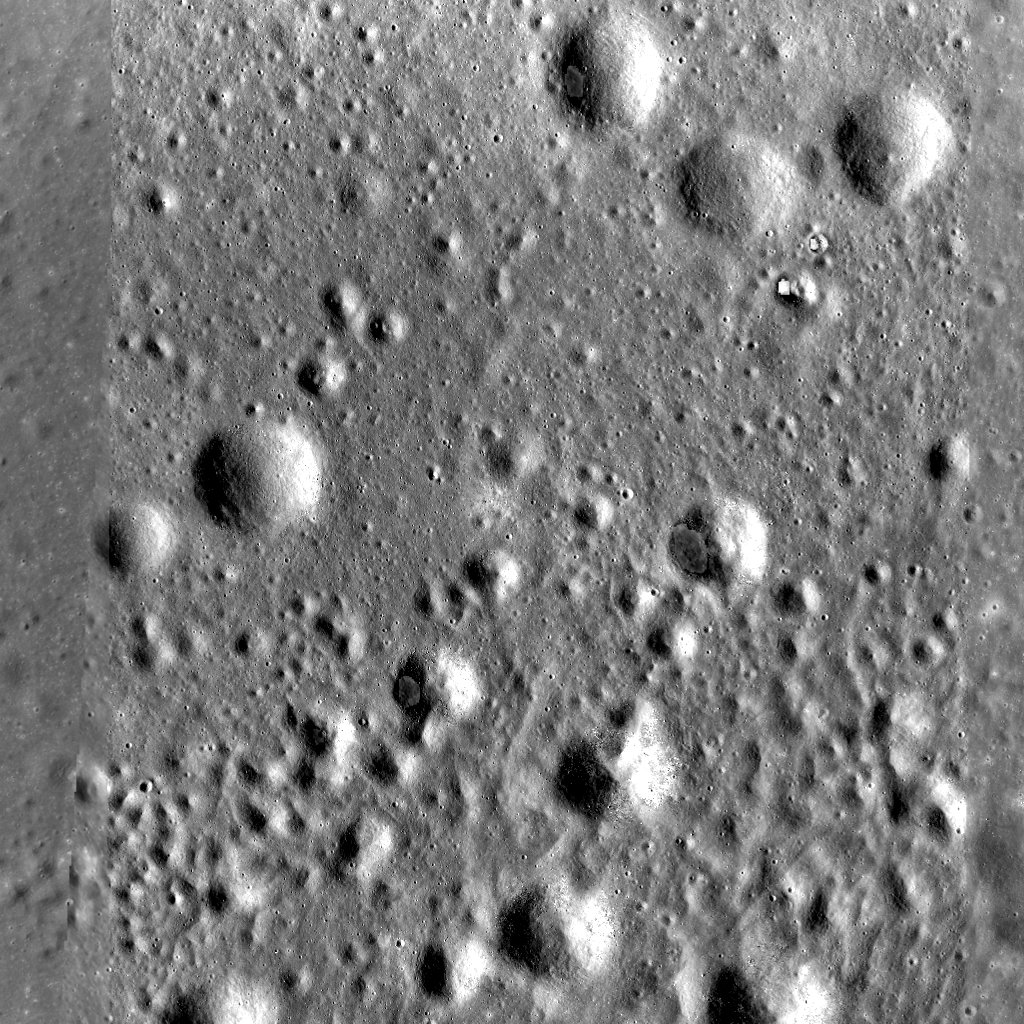
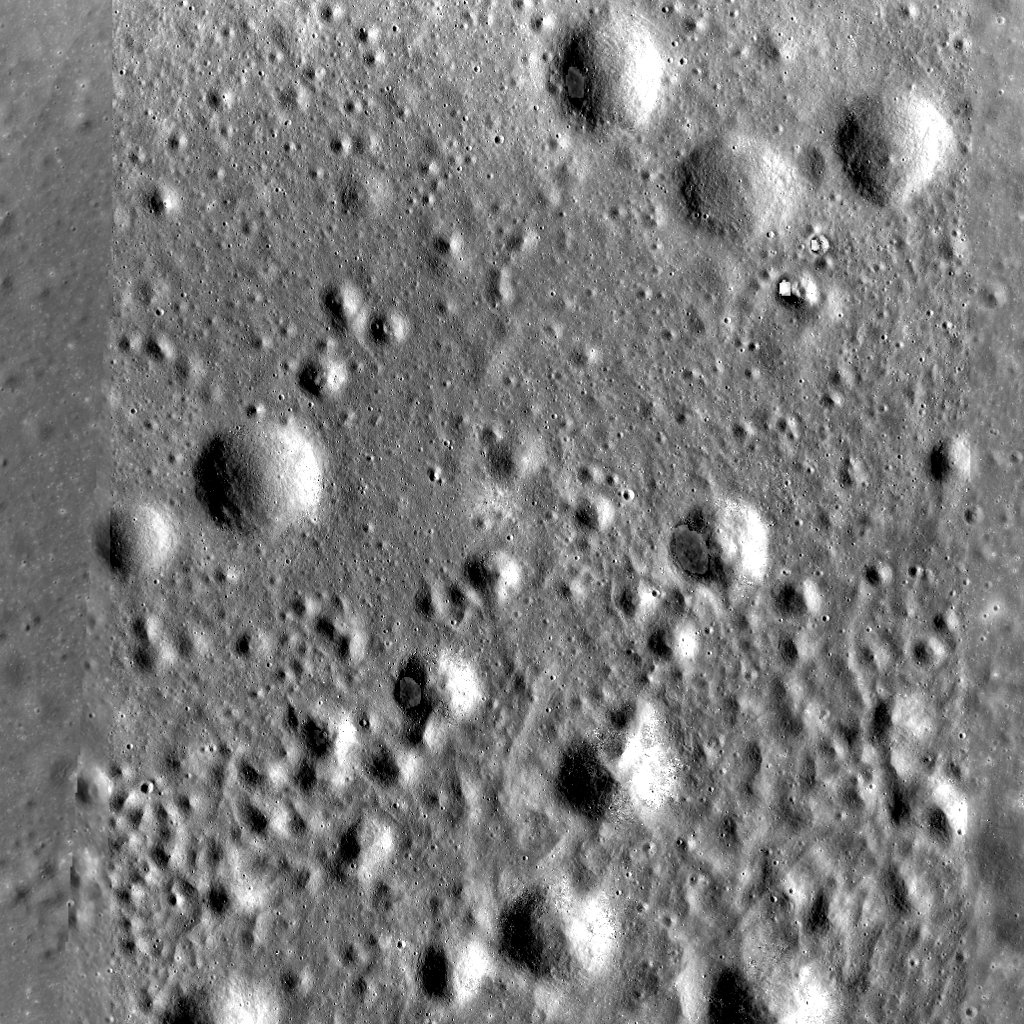
fix(ortho): ship the analytic placement, never the fixed-sun NCC shift
The ortho and its DTM share one equirectangular grid, so the analytic crop is
the alignment. The applied NCC shift moved Lunokhod and Chang'e 3 about 50 m
off their terrain (independent verifier's sun-azimuth sweep); after this fix
all five photo levels align within 1 px. NCC is kept as a recorded
diagnostic, a test fails if any sidecar records an applied shift, and the
README and About now list the photo levels correctly and source the dates.

Claude-Session: https://claude.ai/code/session_01YBoA4784BntYHnonMTBcCG

Changed region(s): [[0.0938, 0.0, 0.9688, 1.0]]

diff --git a/web/index.html b/web/index.html
@@ -56,13 +56,13 @@
       <p class="about-data-intro">TYCHO is a rover teleoperation simulator built on real NASA and USGS elevation data from the Moon and Mars. It models the real signal delay and a co-pilot with labeled uncertainty, and lets you drive it in a browser game. Here is exactly what's real and what isn't.</p>
       <dl class="about-data-list">
         <div><dt>Elevation is real</dt><dd>Lunokhod: LROC NAC DTM NAC_DTM_LUNOKHOD2, 5 m/px native, NASA/GSFC/Arizona State University. Tycho: LROC NAC DTM NAC_DTM_TYCHOPK01, 2 m/px native, resampled to 2.34 m/px for this crop, NASA/GSFC/Arizona State University. Mars (Jezero): USGS CTX DEM M20_JezeroCrater_CTXDEM_20m, 20 m/px, NASA/JPL-Caltech/MSSS/USGS. Chang'e-4: LROC NAC DTM NAC_DTM_CHANGE4, 5 m/px native, NASA/GSFC/Arizona State University. Apollo 17: LROC NAC DTM NAC_DTM_APOLLO17, 5 m/px native, NASA/GSFC/Arizona State University. Apollo 15: LROC NAC DTM NAC_DTM_APOLLO15, 2 m/px native, used at full resolution, NASA/GSFC/Arizona State University. Chang'e 3: LROC NAC DTM NAC_DTM_CHANGE3, 5 m/px native, NASA/GSFC/Arizona State University. All public domain / CC0.</dd></div>
-        <div><dt>Moon ground photos are real where shipped</dt><dd>Where a Moon level ships <code>albedo-ortho.jpg</code>, the ground brightness comes from the LROC NAC orthophoto made with that site's DTM (for example NAC_DTM_APOLLO17_MOSAIC_5M), NASA/GSFC/Arizona State University, public domain. Each photo's product URL, label bounds and alignment check sit in its <code>albedo-ortho.json</code>. The photo has its own sun baked in, so it is blended under the game's lighting rather than replacing it. Tycho keeps the shaded rendering of its DEM: its photo's alignment check against the DEM did not converge, and the photo's own shadow darkened the peak's shadowed face. Levels without a photo also use the shaded rendering.</dd></div>
+        <div><dt>Moon ground photos are real where shipped</dt><dd>Where a Moon level ships <code>albedo-ortho.jpg</code>, the ground brightness comes from the LROC NAC orthophoto made with that site's DTM (for example NAC_DTM_APOLLO17_MOSAIC_5M), NASA/GSFC/Arizona State University, public domain. Each photo's product URL and label bounds sit in its <code>albedo-ortho.json</code>; the photo shares its DTM's map grid, so it is placed by that grid. The photo has its own sun baked in, so it is blended under the game's lighting rather than replacing it. Tycho keeps the shaded rendering of its DEM: the photo's own shadow darkened the peak's shadowed face. Levels without a photo also use the shaded rendering.</dd></div>
         <div><dt>Lunokhod 2's parked position is real</dt><dd>25.830°N, 30.914°E, facing southeast with its lid still open, per LROC post 699 "Lunokhod 2 Revisited". The rover model shown there is an illustrative period-accurate silhouette, not a survey model.</dd></div>
         <div><dt>Chang'e-4's landing position is real</dt><dd>45.457°S, 177.589°E (±20 m), landed 3 January 2019. Position from LROC post 1087 (elevation -5927 m from Liu et al. 2019's LRO-frame solution), "Chang'e 4 Lander Coordinates" - the frame that matches the shipped DTM; Liu, B. et al. 2019, "Descent trajectory reconstruction and landing site positioning of Chang'E-4 on the lunar farside", Nature Communications 10:4229, report an LRO-frame value that agrees within ~20 m and is the source for the landing date. (Liu et al.'s other, more-often-quoted coordinate, 45.4446°S 177.5991°E, is in a different reference frame - CE2TMap2015 - not this DTM's; using it here would place the goal about 415 m from the real lander.)</dd></div>
         <div><dt>The Apollo 17 LRV's parked position is real</dt><dd>20.1896°N, 30.7769°E, elevation -2628 m (±3.2 m), per LROC's "Spacecraft Related Coordinates - 2016 Update". The astronauts drove it there themselves, with no delay at all; TYCHO drives to it remotely from Earth, 1.28 s behind.</dd></div>
         <div><dt>The Apollo 15 LRV and Chang'e 3 positions are real</dt><dd>Apollo 15 LRV: 26.13174°N, 3.63803°E, elevation -1928 m (±0.5 m). Chang'e 3 lander: 44.1214°N, 340.4883°E, elevation -2630 m (±9.1 m); its Yutu rover: 44.1208°N, 340.4878°E (±12.9 m), shown as a plain marker, not a model. All from LROC's "Spacecraft Related Coordinates - 2016 Update" (lroc.im-ldi.com/images/938). The Chang'e 3 lander is drawn with the same illustrative lander model as Chang'e-4, labeled "model approximated" in game.</dd></div>
         <div><dt>Perseverance's real track is NASA's own data</dt><dd>At the end of a Jezero run, the orange lines are NASA's rover-reported Perseverance drive segments (the Mars 2020 MMGIS traverse layer, mars.nasa.gov/mmgis-maps/M20/Layers/json/M20_traverse.json, snapshot fetched 2026-09-26 and thinned to one point per 5 m), limited to the part inside this map. "% of your route within 100 m" counts your route in 5 m steps. It is hidden while you drive.</dd></div>
-        <div><dt>Other landmark models are illustrative</dt><dd>Chang'e-4's lander and Apollo 17's LRV are shown at each level's goal as illustrative type-accurate silhouettes, not survey models. Their position and facing (when known) come from that level's own data files, not invented here; a level without a sourced facing shows its landmark facing south by default.</dd></div>
+        <div><dt>Other landmark models are illustrative</dt><dd>Chang'e-4's lander (also used as an approximated stand-in for Chang'e 3), the Yutu marker, and the Apollo 17 and Apollo 15 LRVs are shown at each level's goal as illustrative silhouettes, not survey models. Their position and facing (when known) come from that level's own data files, not invented here; a level without a sourced facing shows its landmark facing south by default.</dd></div>
         <div><dt>Chang'e-4's relay delay is an approximate model</dt><dd>Chang'e-4 sits on the lunar far side, with no direct line of sight to Earth, so its signal relays through China's Queqiao satellite at the Earth-Moon L2 point. The one-way delay shown (about 1.71 s) is a simplified collinear estimate (Earth-Moon distance plus Queqiao's distance beyond the Moon, from the NASA Moon Fact Sheet and The Planetary Society's reporting on Queqiao's orbit), not a precise ephemeris: Queqiao's real halo orbit varies roughly 47,000-79,000 km from the Moon (Space: Science & Technology, 2021), and the lander sits about 1,400 km from the sub-L2 point, which changes the delay by only about 2 ms - well inside the halo-orbit uncertainty. See <code>tools/sites/relay.py</code> for the full model and sources.</dd></div>
         <div><dt>Surface detail is procedural</dt><dd>Small craters, rocks, and regolith texture near the rover are generated decoration, not measured. Only the large-scale elevation shape comes from the real DEM.</dd></div>
         <div><dt>Earth's position is approximate</dt><dd>Shown at its real apparent size and lit consistently with the sun, but its sky position and the geography visible on it are illustrative, not a precise ephemeris.</dd></div>

diff --git a/web/levels.js b/web/levels.js
@@ -49,10 +49,9 @@ export const LEVELS = {
     key: "tycho", assetKey: "moon", planet: "moon", mode: "live",
     delay: { type: "direct", oneWaySec: 1.28 },
     label: "Tycho", siteLabel: "Tycho central peak",
-    // A2 kill (plan-wave3.md): the NAC orthophoto stays OFF here. Its own
-    // sidecar records the DTM alignment check as not coherent (16 px raw
-    // offset, NCC -0.007), and in the 1280x800 A/B the photo's baked
-    // shadow deepened the already-shadowed peak face with no visible gain.
+    // A2 kill (plan-wave3.md): the NAC orthophoto stays OFF here. In the
+    // 1280x800 A/B the photo's baked shadow deepened the already-shadowed
+    // peak face with no visible gain.
     orthoAlbedo: false,
     briefLines: BRIEFS.tycho,
   },

diff --git a/tools/ortho_albedo.py b/tools/ortho_albedo.py
@@ -21,29 +21,15 @@ GeoTIFF header by re-running the same peak-finding steps tools/sites/
 moon.py already runs (imported, not duplicated logic) against a freshly
 downloaded copy of the DTM.
 
-Final alignment is never just assumed: for every site this module renders
-a hillshade from the site's own height.bin and cross-correlates it against
-the fetched ortho crop. LROC's DTM and orthomosaic for the same site are
-each independently bundle-adjusted, so even an exactly-computed crop
-window can carry a real few-pixel relative offset between the two products
--- confirmed this session on Lunokhod 2 (an 11px/55m north-south offset
-that a wide-search NCC pass measures cleanly, ncc=0.65, and a correction
-pass then confirms corrects to 0px residual). The pipeline therefore does
-a wide (+/-16px) search first, shifts the sampling grid by the measured
-offset, and re-confirms a narrow (+/-2px) residual on the corrected crop
--- that confirmed residual, not a blind first guess, is what must be
-<=2px. Two of the four sites cannot pass that numeric check even though
-their placement is geometrically exact (see above) and their crops read
-as visibly well-aligned in the saved preview PNGs: Von Karman crater
-(change4) is flat enough (71m relief over a 5.12km crop) that its
-hillshade carries essentially no correlatable texture at any search width
-or smoothing (peak |ncc| stays under 0.05 and never converges to an
-interior optimum even at +/-16px raw or heavily Gaussian-blurred); Tycho
-("moon") is steep enough that a fixed synthetic-sun hillshade likely just
-disagrees with the real photo's unknown illumination angle (see
-_exact_tycho_rowcol_to_latlon's docstring). Both are reported as
-INCONCLUSIVE rather than forcing a correction fit to a weak/noisy peak,
-and ship their analytically-placed (uncorrected) crop.
+Alignment: each ortho and its DTM share one equirectangular grid (identical
+LINES/LINE_SAMPLES and projection offsets in the PDS label and the GeoTIFF),
+so the analytic placement above is the alignment and it is shipped as is.
+A normalized cross-correlation against a fixed-sun hillshade is recorded as
+a diagnostic only. It is never applied: a synthetic sun that does not match
+the photo's real illumination biases the peak. An earlier version applied
+it and moved the Lunokhod and Chang'e 3 photos 9-11 px (about 50 m) off
+their terrain; an independent sun-azimuth sweep showed the analytic
+placement aligned at dy=0 once the hillshade sun matched the photo.
 """
 from __future__ import annotations
 
@@ -75,10 +61,7 @@ MEASUREMENTS_DIR = os.path.expanduser(
 
 MOON_RADIUS_M = 1737400.0  # A_AXIS_RADIUS in every label checked this session (1737.4 km)
 OUT_PX = 1024
-NCC_WIDE_SEARCH_PX = 16  # first pass: measures any real DTM<->ortho product co-registration offset
-NCC_CONFIRM_SEARCH_PX = 4  # second pass: confirms the corrected crop's residual offset
-NCC_MAX_OFFSET_PX = 2
-NCC_COHERENCE_MIN = 0.15  # below this peak |ncc|, the hillshade has no measurable shared texture
+NCC_WIDE_SEARCH_PX = 16  # diagnostic search window only; the result is recorded, never applied
 FETCH_PAD_PX = NCC_WIDE_SEARCH_PX + 4
 MAX_JPEG_BYTES = 400_000
 
@@ -219,11 +202,8 @@ def _fetch_ortho_crop(site: str, rowcol_to_latlon, shade_1024: np.ndarray,
                        session: requests.Session) -> tuple[np.ndarray, dict]:
     """Fetches the label and the smallest ortho-pixel window covering the
     site's 1024x1024 crop (+ FETCH_PAD_PX margin), fills any nodata in that
-    window, samples the crop at its analytically-placed coordinates, then
-    (see module docstring) runs a wide NCC search against shade_1024 and
-    -- unless the hillshade has no measurable texture (change4) -- shifts
-    the sampling grid by the measured offset and re-samples, confirming
-    the corrected residual is within NCC_MAX_OFFSET_PX. Returns
+    window and samples the crop at its analytically-placed coordinates. A
+    fixed-sun NCC is recorded as a diagnostic and never applied. Returns
     (final_crop_values, alignment_and_label_meta)."""
     url = ortho_url(site)
     label_text = fetch_label_text(url, session=session)
@@ -253,40 +233,23 @@ def _fetch_ortho_crop(site: str, rowcol_to_latlon, shade_1024: np.ndarray,
     local_sample = sample - win_col0
     nominal = map_coordinates(filled, [local_line, local_sample], order=1, mode="nearest")
 
-    wide_dy, wide_dx, wide_ncc = _best_ncc_offset(shade_1024, nominal, NCC_WIDE_SEARCH_PX)
-    coherent = abs(wide_ncc) >= NCC_COHERENCE_MIN and max(abs(wide_dy), abs(wide_dx)) < NCC_WIDE_SEARCH_PX
-    print(f"  wide-search NCC: dy={wide_dy} dx={wide_dx} ncc={wide_ncc:.3f} "
-          f"({'coherent, correcting' if coherent else 'INCONCLUSIVE (no measurable texture), shipping uncorrected'})")
-
-    if coherent:
-        corrected = map_coordinates(filled, [local_line - wide_dy, local_sample - wide_dx],
-                                     order=1, mode="nearest")
-        confirm_dy, confirm_dx, confirm_ncc = _best_ncc_offset(shade_1024, corrected, NCC_CONFIRM_SEARCH_PX)
-        if max(abs(confirm_dy), abs(confirm_dx)) > NCC_MAX_OFFSET_PX:
-            raise ValueError(f"{site}: corrected NCC residual {max(abs(confirm_dy), abs(confirm_dx))}px "
-                              f"exceeds {NCC_MAX_OFFSET_PX}px accept threshold "
-                              f"(pre-correction dy={wide_dy},dx={wide_dx}; residual dy={confirm_dy},dx={confirm_dx})")
-        final = corrected
-        alignment = {
-            "coherent": True,
-            "rawOffsetPx": {"dy": wide_dy, "dx": wide_dx},
-            "rawNcc": round(wide_ncc, 4),
-            "appliedCorrectionPx": {"dy": -wide_dy, "dx": -wide_dx},
-            "confirmedResidualOffsetPx": {"dy": confirm_dy, "dx": confirm_dx},
-            "confirmedResidualNcc": round(confirm_ncc, 4),
-        }
-        print(f"  confirmed residual after correction: dy={confirm_dy} dx={confirm_dx} "
-              f"(ncc={confirm_ncc:.3f}); accept <= {NCC_MAX_OFFSET_PX}px")
-    else:
-        final = nominal
-        alignment = {
-            "coherent": False,
-            "reason": "hillshade has insufficient relief texture to measure a reliable offset "
-                      "(peak |ncc| < NCC_COHERENCE_MIN, or best offset never converged inside the "
-                      "search window); shipped at the analytically-computed placement, uncorrected",
-            "rawOffsetPx": {"dy": wide_dy, "dx": wide_dx},
-            "rawNcc": round(wide_ncc, 4),
-        }
+    # The ortho and its DTM share one equirectangular grid (same LINES/
+    # LINE_SAMPLES and projection offsets in the label and the GeoTIFF), so
+    # the analytic placement above IS the alignment. The NCC below is a
+    # diagnostic only and is never applied: its fixed synthetic sun does not
+    # match each photo's real illumination, and on Lunokhod and Chang'e 3 it
+    # reported a 9-11 px "offset" that, when applied, moved the photo about
+    # 50 m off its terrain (independent verifier, sun-azimuth sweep: the
+    # analytic placement aligns at dy=0 when the hillshade sun matches).
+    diag_dy, diag_dx, diag_ncc = _best_ncc_offset(shade_1024, nominal, NCC_WIDE_SEARCH_PX)
+    print(f"  diagnostic NCC vs fixed-sun hillshade: dy={diag_dy} dx={diag_dx} ncc={diag_ncc:.3f} (not applied)")
+    final = nominal
+    alignment = {
+        "method": "analytic: ortho and DTM share one equirectangular grid; crop placed from the site's own DTM crop geometry",
+        "correctionApplied": False,
+        "diagnosticFixedSunNcc": {"dy": diag_dy, "dx": diag_dx, "ncc": round(diag_ncc, 4),
+                                  "note": "fixed-sun hillshade vs photo; biased by illumination mismatch, not applied"},
+    }
 
     label_meta = {
         "productId": label.product_id,
@@ -383,14 +346,7 @@ def process_site(site: str) -> dict:
         "cropWidthPx": OUT_PX,
         "cropHeightPx": OUT_PX,
         "cropMetersPerPixel": mpp,
-        "alignmentCheck": {
-            "method": "normalized cross-correlation vs a hillshade rendered from this site's own "
-                      "height.bin; wide (+/-16px) search measures any real DTM<->ortho product "
-                      "offset, then (if coherent) the crop is shifted and a narrow (+/-2px) "
-                      "confirm search checks the corrected residual",
-            "acceptMaxOffsetPx": NCC_MAX_OFFSET_PX,
-            **alignment,
-        },
+        "alignmentCheck": alignment,
         "nodataFilledFractionInFetchWindow": label_meta["nodataFilledFractionInFetchWindow"],
         "renderNote": ("Raw DN linearly stretched (1st-99th percentile) to 8-bit for display; "
                        "not radiometrically calibrated to I/F reflectance (the label's "

diff --git a/tools/sites/change3.py b/tools/sites/change3.py
@@ -8,10 +8,10 @@ crewed/robotic-missions coordinates table, rows:
   "Yutu Rover | 44.1208 | 340.4878 | -2630 | 12.9"
 (lat/lon in degrees, elevation in meters, uncertainty in meters; mean
 Earth/polar axis (ME) frame, GLD100 shape model, same table apollo17.py and
-change4.py's cross-check both cite). Chang'e 3 landed on Mare Imbrium's
-near side on 14 December 2013 and deployed the Yutu rover the same day
-(mission dates are common knowledge, not independently re-sourced this
-session beyond the LROC post's own framing of the mission as historical).
+change4.py's cross-check both cite). Chang'e 3 landed on Mare Imbrium on
+14 December 2013 (LROC post 637, https://lroc.im-ldi.com/images/637:
+"Chang'e 3 landed on Mare Imbrium (Sea of Rains) just east of a 450 m
+diameter impact crater on 14 December 2013.").
 
 The DTM product page (https://data.lroc.im-ldi.com/lroc/view_rdr/
 NAC_DTM_CHANGE3, fetched this session) lists Pixel Scale 5 m/px and

diff --git a/tools/test_ortho_albedo.py b/tools/test_ortho_albedo.py
@@ -403,3 +403,19 @@ class AnchoredRowColToLatLonTests(unittest.TestCase):
 
 if __name__ == "__main__":
     unittest.main()
+
+
+class ShippedSidecarsNeverApplyACorrection(unittest.TestCase):
+    """A fixed-sun NCC once moved two photos ~50 m off their DTM. The ortho
+    and its DTM share one grid, so every shipped crop must be the analytic
+    placement: no sidecar may record an applied shift."""
+
+    def test_every_shipped_sidecar_is_uncorrected(self):
+        import glob, json, os
+        root = os.path.join(os.path.dirname(os.path.abspath(__file__)), "..", "assets")
+        paths = sorted(glob.glob(os.path.join(root, "*", "albedo-ortho.json")))
+        self.assertGreaterEqual(len(paths), 6)
+        for p in paths:
+            check = json.load(open(p))["alignmentCheck"]
+            self.assertIs(check.get("correctionApplied"), False, p)
+            self.assertNotIn("appliedCorrectionPx", check, p)

diff --git a/tools/sites/apollo15.py b/tools/sites/apollo15.py
@@ -7,10 +7,8 @@ https://lroc.im-ldi.com/images/938 -- crewed-missions coordinates table,
 row "Apollo 15 LRV | 26.13174 | 3.63803 | -1928 | 0.5" (mean observed
 lat/lon in degrees, elevation in meters, uncertainty in meters; mean
 Earth/polar axis (ME) frame, GLD100 shape model). Apollo 15 landed 30 July
-1971 and its final surface EVA (during which the rover was left parked)
-was 2 August 1971 (mission dates are common knowledge, not independently
-re-sourced this session beyond the LROC post's own framing of the mission
-as historical).
+1971 and was the first mission to use the Lunar Roving Vehicle (NSSDC
+1971-063A, https://nssdc.gsfc.nasa.gov/nmc/spacecraft/display.action?id=1971-063A).
 
 DTM product confirmed this session: data.lroc.im-ldi.com/lroc/view_rdr/
 NAC_DTM_APOLLO15 -- 2 m/px, footprint 25.59-26.54N 3.50-3.69E, TIF

diff --git a/README.md b/README.md
@@ -114,8 +114,8 @@ Honesty is the point of this project, so here's the line, drawn plainly. The sam
 | **Real gaps** | No-data areas | Where the orbital stereo model has no data, the ground is dimmed and hatched and treated as impassable. The rover stops there and the co-pilot won't route through it. Lunokhod's crop has almost none (0.076% of cells); the Tycho crop, cut from a rotated swath edge, has more. |
 | **Procedural** | Near-field detail | Small craters, rocks and fine surface texture near the rover are generated decoration. Only the large-scale shape comes from the DEM. |
 | **Approximate** | Earth in the lunar sky | Shown at a realistic apparent size, but its sky position is illustrative, not an ephemeris. |
-| **Real photos, blended** | Ground brightness on Lunokhod, Chang'e-4 and Apollo 17 | The LROC NAC orthophoto made with each site's DTM (e.g. `NAC_DTM_APOLLO17_MOSAIC_5M`), cropped to the same window and stretched to 8 bits for display (`assets/<site>/albedo-ortho.json` records the product URL, label bounds and alignment check). It modulates the lit ground; the game's sun still does the shading. |
-| **Not photos** | Surface color elsewhere | Tycho, Apollo 15, Chang'e 3 and Jezero are shaded from the elevation data with a Moon or Mars palette. Tycho has a photo but keeps the shading on purpose: the photo's alignment check against the DEM did not converge, and in A/B screenshots its baked shadow darkened the peak's shadowed face. |
+| **Real photos, blended** | Ground brightness on Lunokhod, Chang'e-4, Chang'e 3, Apollo 17 and Apollo 15 | The LROC NAC orthophoto made with each site's DTM (e.g. `NAC_DTM_APOLLO17_MOSAIC_5M`), cropped to the same window and stretched to 8 bits for display (`assets/<site>/albedo-ortho.json` records the product URL and label bounds). The photo and the DTM share one map grid, so the crop is placed by the grid itself; a hillshade correlation is kept only as a diagnostic. It modulates the lit ground; the game's sun still does the shading. |
+| **Not photos** | Surface color elsewhere | Tycho and Jezero are shaded from the elevation data with a Moon or Mars palette. Tycho has a photo but keeps the shading on purpose: in A/B screenshots the photo's baked shadow darkened the peak's shadowed face. |
 | **Real, NASA data** | Perseverance's track on the Jezero end card | NASA's rover-reported drive segments from the Mars 2020 MMGIS traverse layer ([M20_traverse.json](https://mars.nasa.gov/mmgis-maps/M20/Layers/json/M20_traverse.json), an undocumented layer, snapshot fetched 2026-09-26 into `assets/mars/m20-traverse.json`, thinned to one point per 5 m). Only segments inside the 20.48 km map are drawn, so the label shows their sol range (sols 14-1354), not the whole mission's. Shown only after the mission ends. |
 | **Data-driven proxies** | Tycho and Mars spawn/goal | Picked by code from the DEM (lowest safe slope, highest reachable point, roughness near the delta), then moved where testing showed the original spot couldn't be won. Every move is logged in `assets/*/meta.json`. Lunokhod's goal is not a proxy (it's the real parked-rover coordinate); its spawn is a code-picked point 2.06 km south, along the rover's real historic approach direction. Chang'e-4 and Apollo 17's goals are the real surveyed coordinates too; neither landing has a sourced approach bearing, so each spawn is code-picked by `tools/sites/common.py`'s `pick_best_spawn`, searched across every compass bearing. Apollo 17's spawn (1.5-3 km out) minimizes the max slope along its straight line to the goal. Chang'e-4's (1.2-1.8 km out) also scores real-route tortuosity and the offset from the rover's starting heading; those terms and the tighter range were added after playtesting found the original range made a delayed-telemetry drive too long to be fun. Apollo 15 and Chang'e 3 use the same all-bearing lowest-max-slope pick: 1.5-3 km out on Chang'e 3, 400-900 m on Apollo 15 (its 2.05 km crop has no room for more). |
 | **Not shipped** | Opportunity | TYCHO's premise is real terrain. No primary source gives Opportunity's precise final position at Perseverance Valley (only prose descriptions and the *landing* site were found), so it isn't shipped rather than shipped on synthetic ground. |
@@ -200,7 +200,7 @@ The unit tests include **playability bots** (`tests/playability.test.mjs`), para
 
 The boot probe checks that the real DEM renders on the flagship Lunokhod level, that the rover's true state doesn't move until the one-way delay has passed (observed: about 1.4 s for 1.28 s), and that your view doesn't change until the round trip is done (observed: about 2.7 s for 2.56 s). A debug win near the Lunokhod goal also proves the end card's objectives render and mark the win met. It also confirms Tycho boots cleanly, that a Mars plan waits out its 12 s compressed delay, that the co-pilot holds instead of driving onto a slope it's forbidden to cross, and that switching from Tycho to Mars clears Tycho's status line instead of leaving it stuck on screen. A fresh Mars run then proves the drift reveal's present-time rule end to end: the "Drift this run" line and the true/believed track minimap are absent (not just hidden - actually invisible) while the mission is still active, appear only once it reaches a terminal status, and are gone again after a retry. It then places waypoints and presses Dry run through the real DOM (not the debug API): asserts a full 100-result outcome breakdown and the always-present drift label render, and - by sampling a frame counter and `getLiveLoopCount()` while the async run is still in flight - that the render loop never stalls, never doubles up, while it runs. It then iterates every other level in `LEVEL_ORDER`: one whose assets are present in the checkout gets the same real-DEM + positive-delay proof; one without is logged and skipped, not asserted against - that gate belongs to the data pipeline lane, not this one. The same Mars run also proves the Perseverance reveal's present-time rule: absent from the DOM and from game state on every sample before the mission ends, then drawn at mission end with its real sol range and orange pixels at a real track point. Finally, on every level it checks which ground texture reached the shader (the orthophoto exactly when a sidecar ships and the level hasn't opted out, otherwise the DEM shading), forces both fallbacks (a missing sidecar and a broken photo each land on the DEM shading), and renders each goal landmark (and Chang'e 3's Yutu marker) from a nearby camera with it shown and hidden, requiring the frames to differ; Chang'e 3 must also show its "model approximated" note.
 
-The Python pipeline has its own 82 offline tests: georef round trips (including the Lunokhod raster's different GeoKey combination), nodata fill and mask, resampling, site picking (including the directional spawn picker used by Lunokhod, Chang'e-4, Apollo 17, Apollo 15 and Chang'e 3), the meta schema, the Chang'e-4/Apollo 17 far-side relay light-time model (`tools/test_relay.py`), the Apollo 15 and Chang'e 3 sites (`tools/test_apollo15.py`, `tools/test_change3.py`), the PDS3 label reader and orthophoto crops (`tools/test_ortho_albedo.py`), and the Perseverance traverse snapshot (`tools/test_m20_traverse.py`).
+The Python pipeline has its own 89 offline tests: georef round trips (including the Lunokhod raster's different GeoKey combination), nodata fill and mask, resampling, site picking (including the directional spawn picker used by Lunokhod, Chang'e-4, Apollo 17, Apollo 15 and Chang'e 3), the meta schema, the Chang'e-4/Apollo 17 far-side relay light-time model (`tools/test_relay.py`), the Apollo 15 and Chang'e 3 sites (`tools/test_apollo15.py`, `tools/test_change3.py`), the PDS3 label reader and orthophoto crops (`tools/test_ortho_albedo.py`), and the Perseverance traverse snapshot (`tools/test_m20_traverse.py`).
 
 ## Run it locally
 
